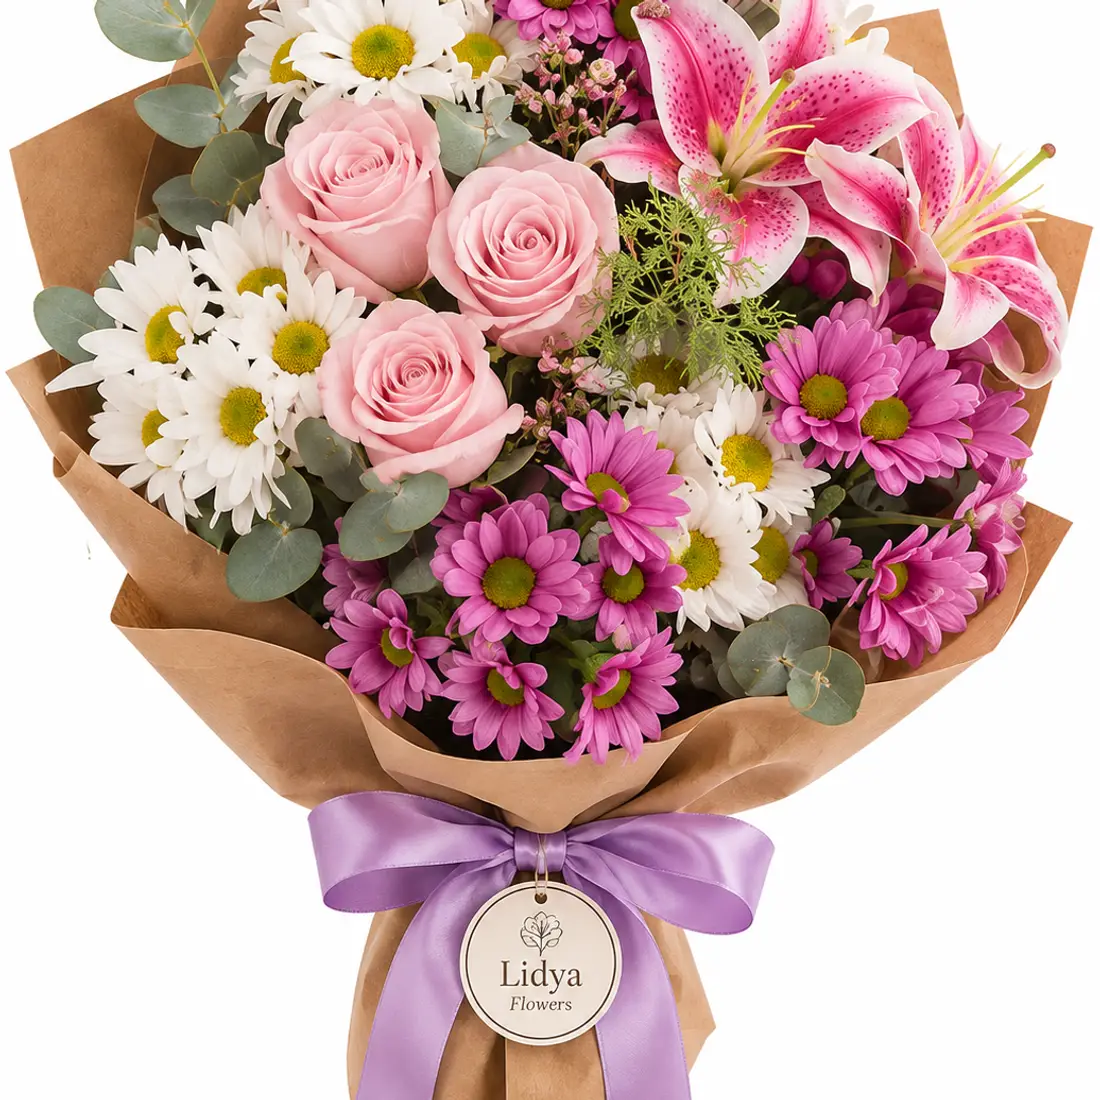
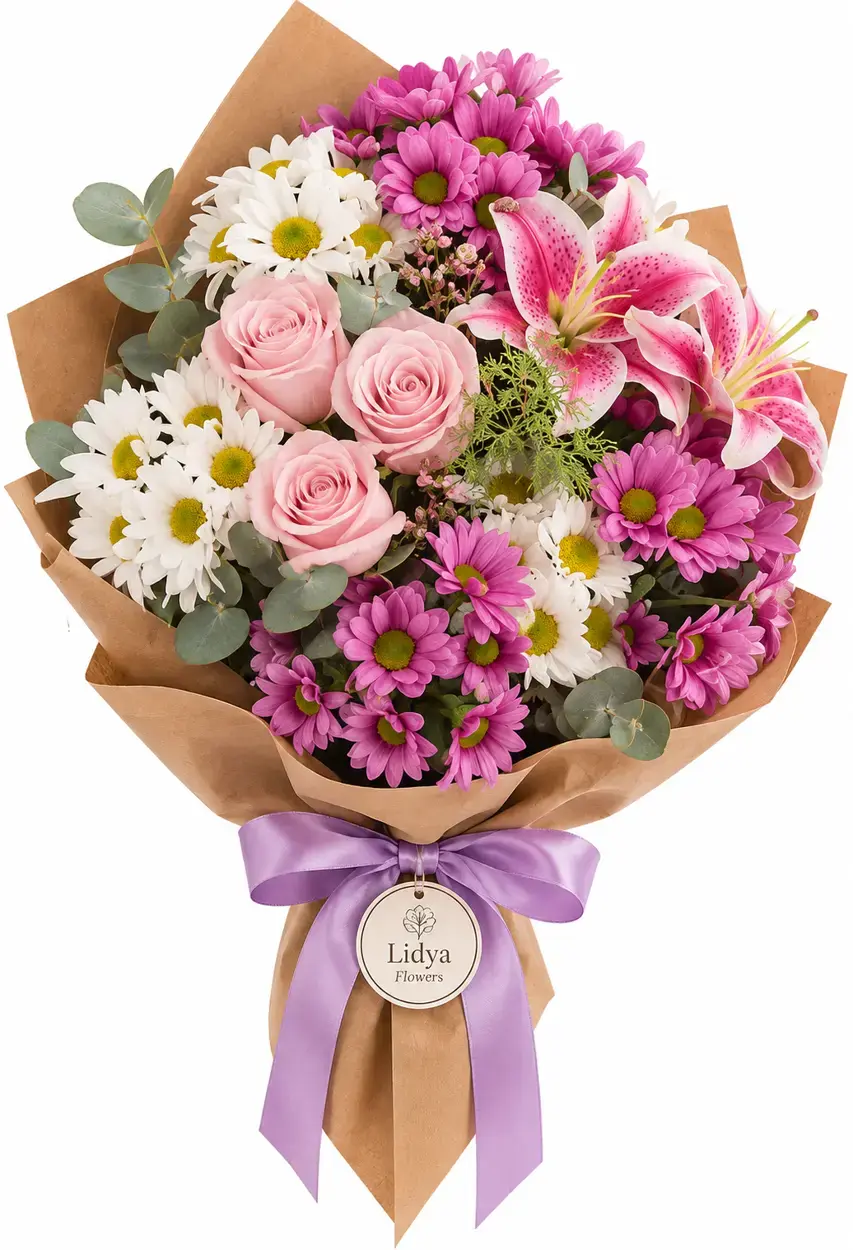
Hero: buketin tamamı görünsün (kırpmasız)

diff --git a/index.html b/index.html
@@ -43,8 +43,8 @@ nav.menu a:hover{color:var(--rose)}
 /* hero */
 .hero{background:var(--cream)}
 .hero .wrap{display:grid;gap:18px;padding-top:18px;padding-bottom:26px}
-.hero-img{border-radius:22px;overflow:hidden;aspect-ratio:4/3;background:var(--pink)}
-.hero-img img{width:100%;height:100%;object-fit:cover}
+.hero-img{border-radius:22px;overflow:hidden;aspect-ratio:1/1;background:#fefefe;padding:10px}
+.hero-img img{width:100%;height:100%;object-fit:contain}
 .hero h1{font-size:clamp(30px,8vw,54px);line-height:1.05;margin:0 0 10px;font-weight:400}
 .hero h1 em{color:var(--rose);font-style:italic}
 .hero p{margin:0 0 18px;color:var(--mut);font-size:16px;max-width:460px}
@@ -143,7 +143,7 @@ footer a:hover{color:#fff}
  .ikon{margin-left:0}
  nav.menu{display:block}
  .hero .wrap{grid-template-columns:1.05fr 1fr;align-items:center;padding-top:34px;padding-bottom:40px;gap:48px}
- .hero-img{aspect-ratio:5/4;order:2}
+ .hero-img{aspect-ratio:1/1;order:2;max-height:560px}
  .grid{grid-template-columns:repeat(4,1fr)}
  .teslim{padding:20px 28px}
  .wa-sabit span{display:inline}
@@ -171,7 +171,7 @@ footer a:hover{color:#fff}
 
 <section class="hero">
  <div class="wrap">
-  <div class="hero-img"><img src="img/hero.webp" alt="Soft pembe gül ve lilyum buketi" width="1100" height="1100" fetchpriority="high"></div>
+  <div class="hero-img"><img src="img/hero.webp" alt="Soft pembe gül ve lilyum buketi" width="853" height="1250" fetchpriority="high"></div>
   <div>
    <h1 class="serif">Sevdiklerinize <em>en taze</em> çiçekler, bugün kapıda</h1>
    <p>Modern ve zarif buketler, özenle hazırlanıp şık bir sunumla teslim edilir. İstanbul geneli aynı gün teslimat.</p>
